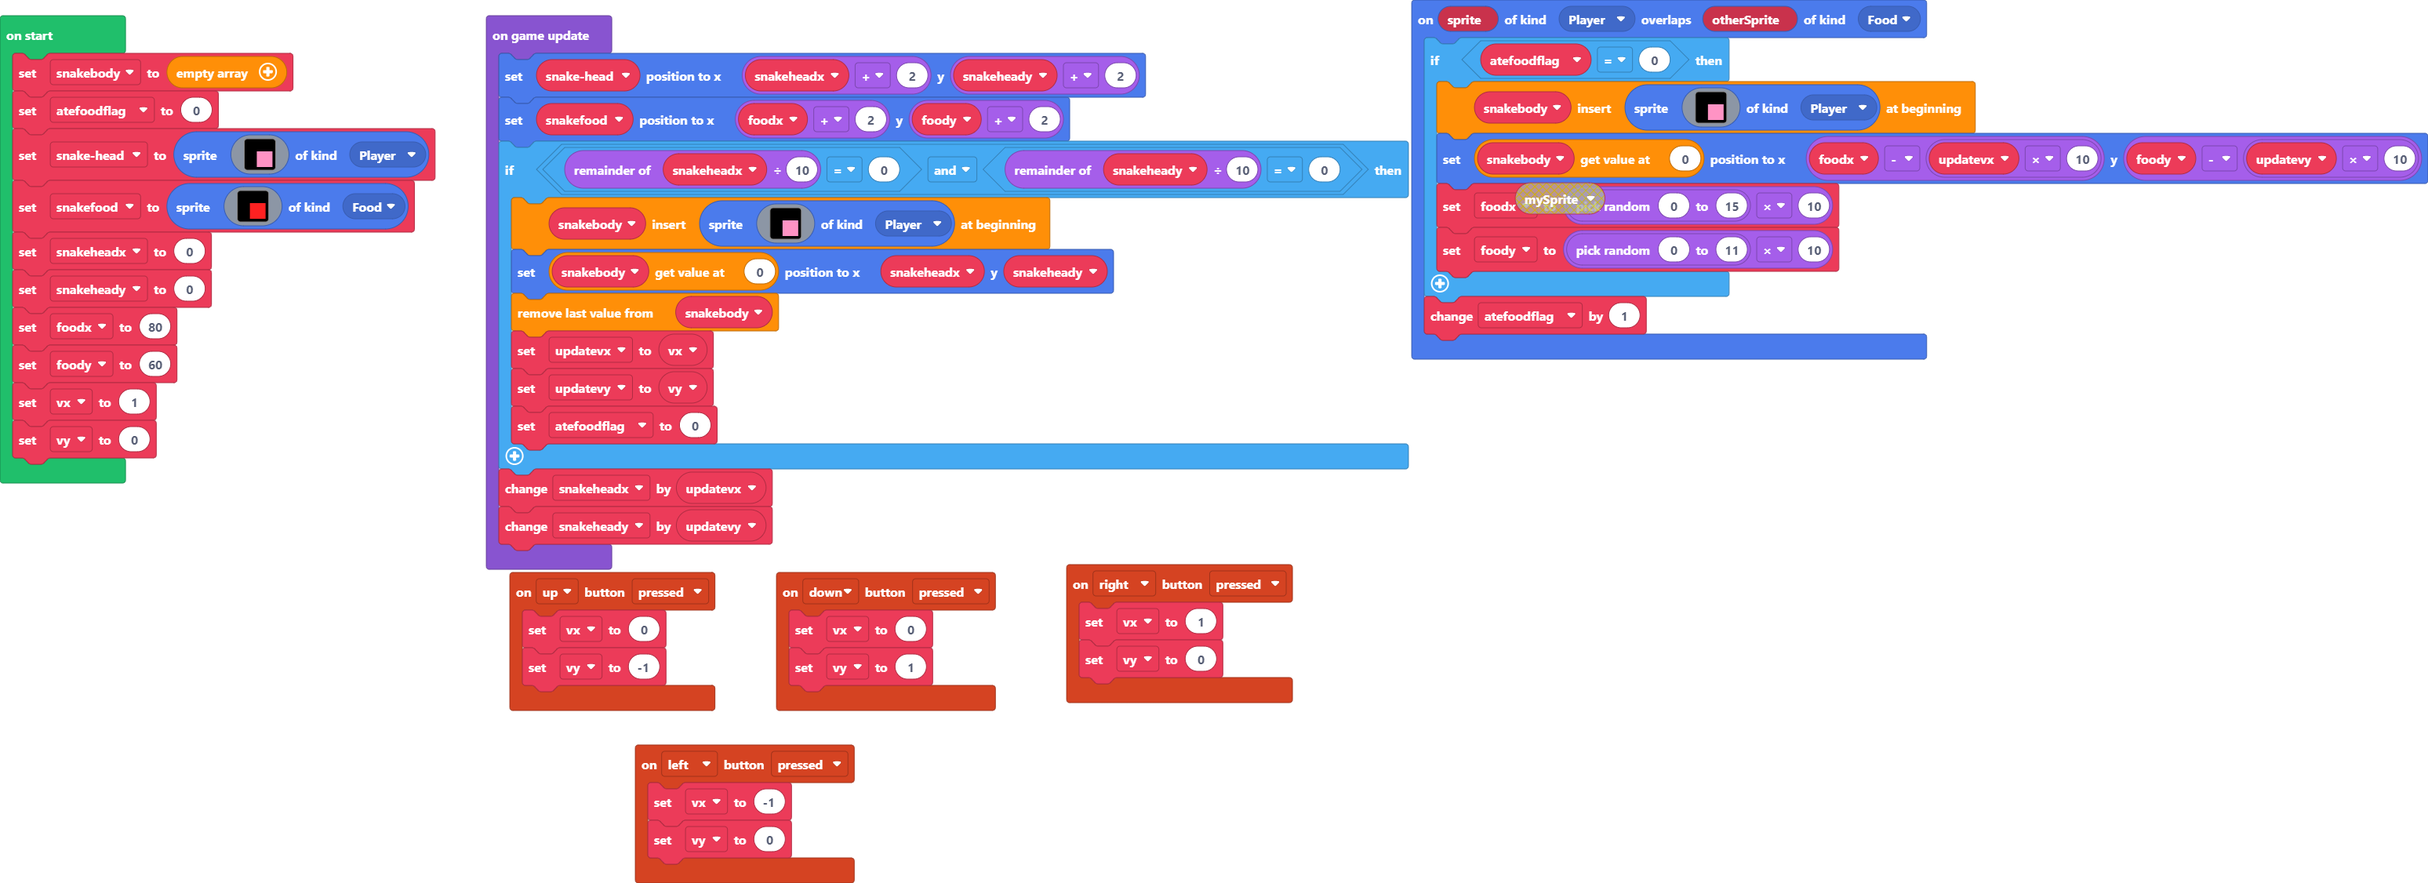
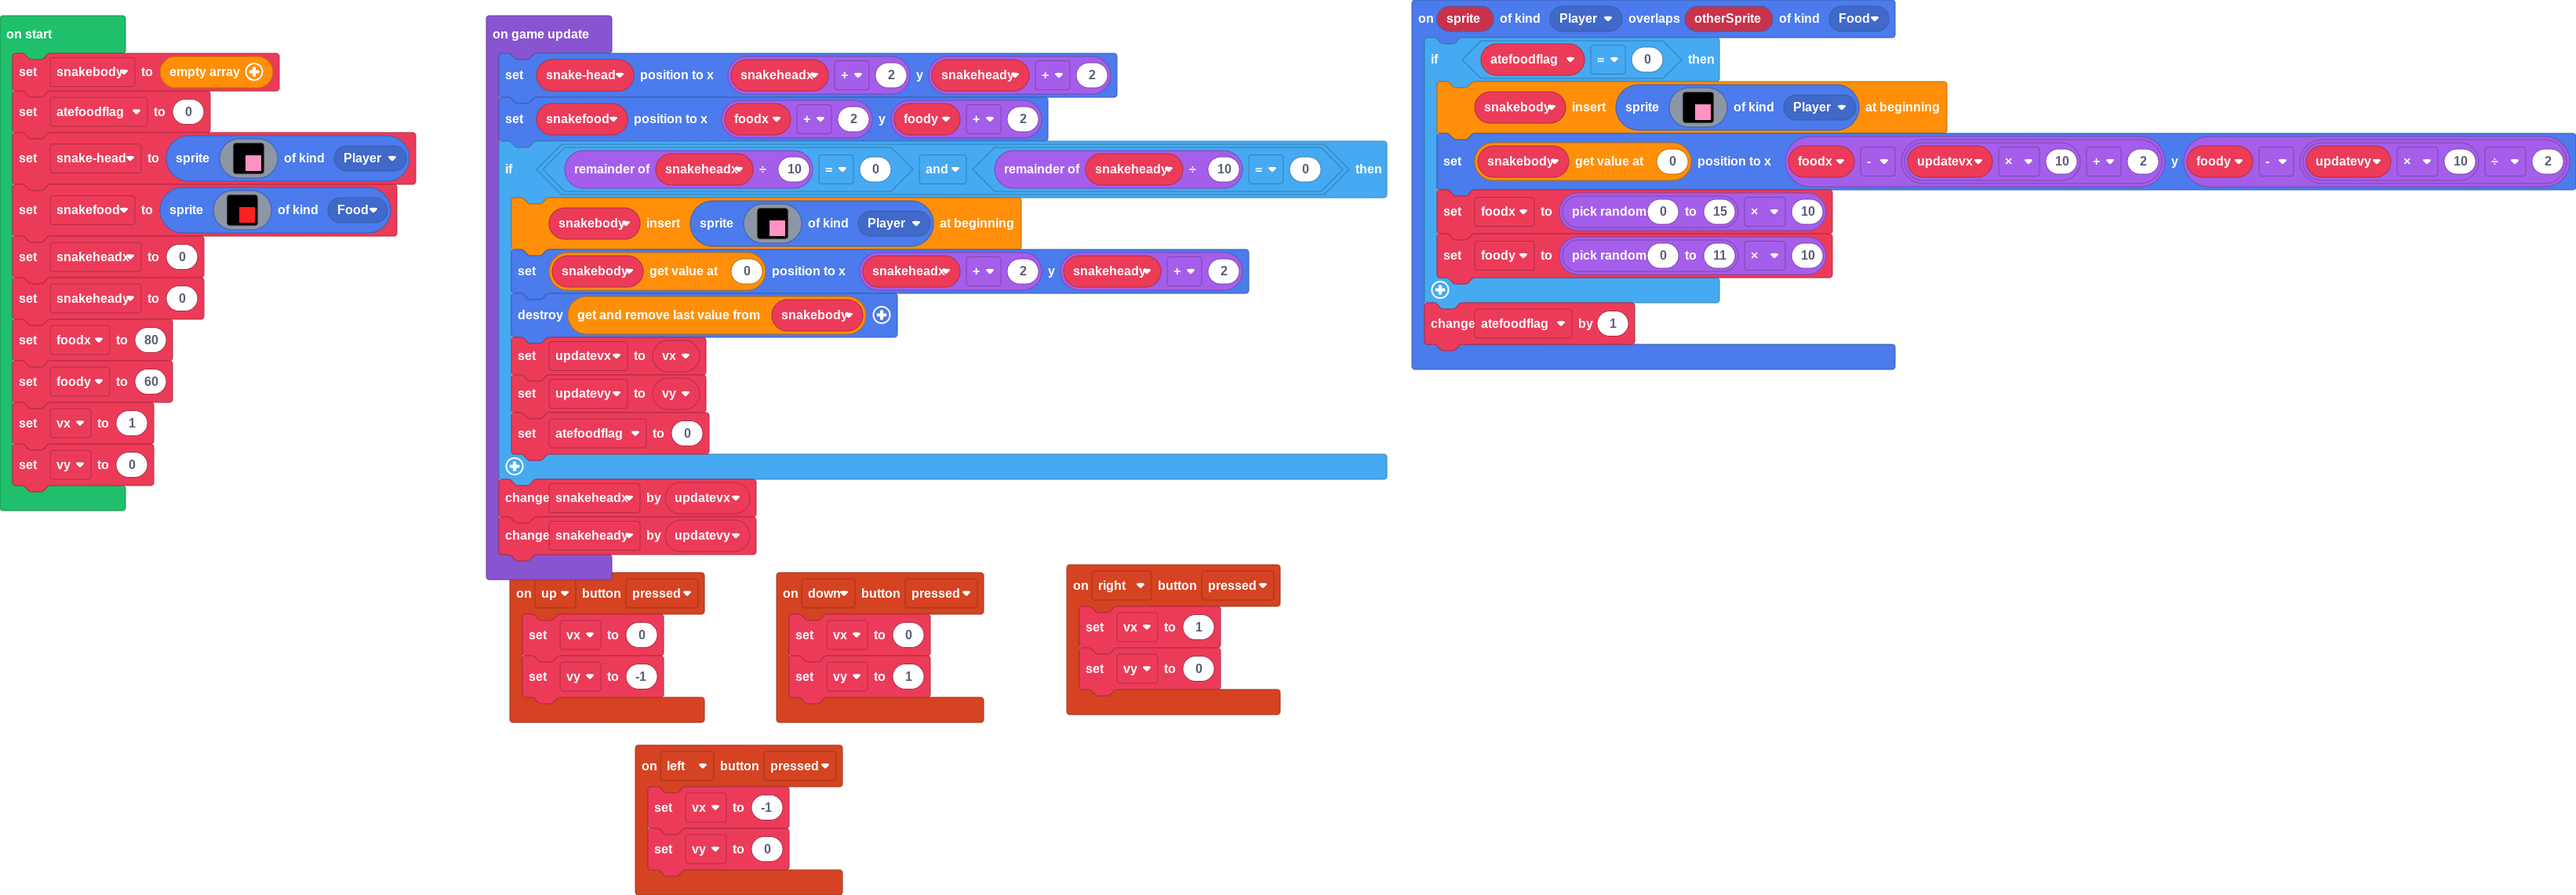
fixed snake body

Changed region(s): [[0.0, 0.0, 1.0, 1.0]]

diff --git a/main.ts b/main.ts
@@ -34,7 +34,7 @@ sprites.onOverlap(SpriteKind.Player, SpriteKind.Food, function (sprite, otherSpr
             . . . . . . 3 3 3 3 3 3 3 3 3 3 
             . . . . . . 3 3 3 3 3 3 3 3 3 3 
             `, SpriteKind.Player))
-        snakebody[0].setPosition(foodx - updatevx * 10, foody - updatevy * 10)
+        snakebody[0].setPosition(foodx - (updatevx * 10 + 2), foody - updatevy * 10 / 2)
         foodx = randint(0, 15) * 10
         foody = randint(0, 11) * 10
     }
@@ -114,8 +114,8 @@ game.onUpdate(function () {
             . . . . . . 3 3 3 3 3 3 3 3 3 3 
             . . . . . . 3 3 3 3 3 3 3 3 3 3 
             `, SpriteKind.Player))
-        snakebody[0].setPosition(snakeheadx, snakeheady)
-        snakebody.pop()
+        snakebody[0].setPosition(snakeheadx + 2, snakeheady + 2)
+        snakebody.pop().destroy()
         updatevx = vx
         updatevy = vy
         atefoodflag = 0
